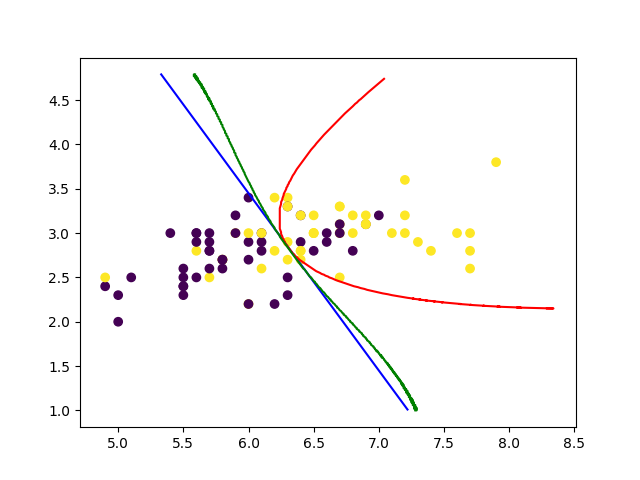
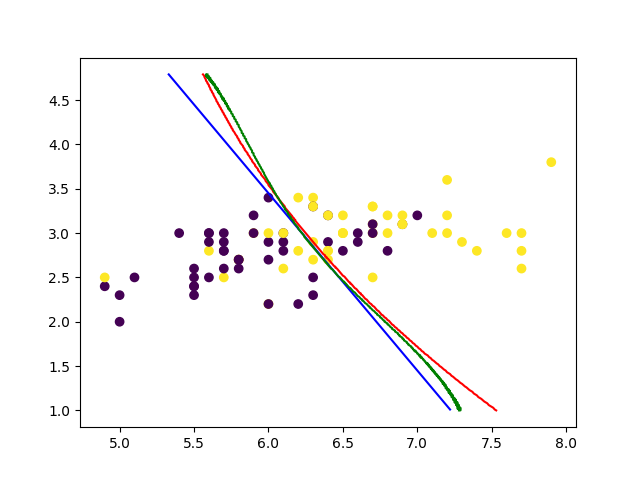
Degree changed from 3 to 4

diff --git a/sklearn/ex2/svm_exercise.py b/sklearn/ex2/svm_exercise.py
@@ -57,12 +57,15 @@ iris_y_test = iris_y[indices[-test_size:]]
 # fit linear support vector machine to data
 svm_lin = svm.SVC(kernel='linear')
 svm_lin.fit(iris_X_train, iris_y_train)
+svm_lin_score = svm_lin.score(iris_X_test, iris_y_test)
 
-svm_poly = svm.SVC(kernel='poly', degree=3)
+svm_poly = svm.SVC(kernel='poly', degree=4)
 svm_poly.fit(iris_X_train, iris_y_train)
+svm_poly_score = svm_poly.score(iris_X_test, iris_y_test)
 
 svm_rbf = svm.SVC(kernel='rbf')
 svm_rbf.fit(iris_X_train, iris_y_train)
+svm_rbf_score = svm_rbf.score(iris_X_test, iris_y_test)
 
 # plot all of the findings
 X1_lin, X2_lin = plot_desicion_boundary(iris_X_train, svm_lin)
@@ -77,4 +80,4 @@ plt.plot(X1_lin, X2_lin, c='blue')
 plt.plot(X1_poly, X2_poly, c='red')
 plt.plot(X1_rbf, X2_rbf, c='green')
 plt.scatter(iris_X_train[:, 0], iris_X_train[:, 1], c=iris_y_train)
-plt.savefig('iris_svm.png')
+plt.show('iris_svm.png')
